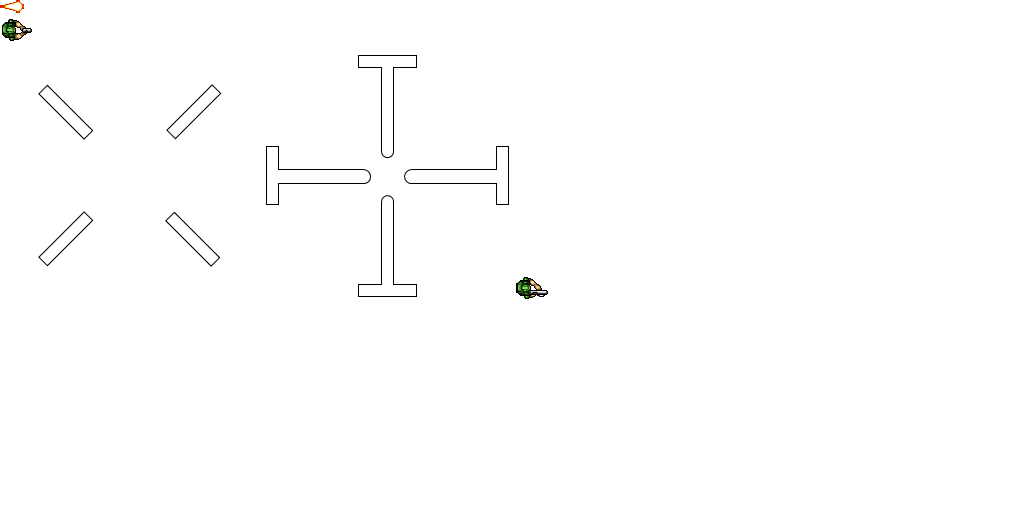
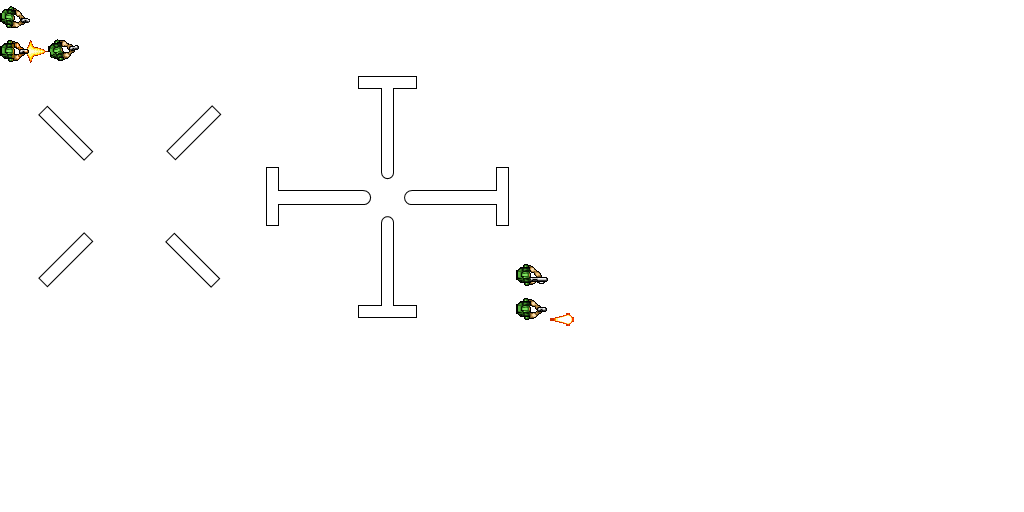
Animations added

diff --git a/core/src/com/vt/gameobjects/characters/CharacterObject.java b/core/src/com/vt/gameobjects/characters/CharacterObject.java
@@ -1,6 +1,7 @@
 package com.vt.gameobjects.characters;
 
 import com.badlogic.gdx.ai.steer.behaviors.Arrive;
+import com.badlogic.gdx.graphics.g2d.Animation;
 import com.badlogic.gdx.graphics.g2d.Batch;
 import com.badlogic.gdx.math.Vector2;
 import com.badlogic.gdx.scenes.scene2d.utils.Align;
@@ -11,21 +12,38 @@ import com.vt.gameobjects.pointers.MovementPointer;
 import com.vt.gameobjects.pointers.ViewPointer;
 import com.vt.gameobjects.weapons.AbstractWeapon;
 import com.vt.gameobjects.weapons.Pistol;
-import com.vt.gameobjects.weapons.Rifle;
 import com.vt.physics.CollisionManager;
 import com.vt.resources.Assets;
+import com.vt.timedriven.DelayedAction;
+import com.vt.timedriven.TimeDrivenExecutor;
 
 /**
  * Created by Fck.r.sns on 16.05.2015.
  */
 public class CharacterObject extends ActingObject implements ControllableCharacter {
+    private static final String TAG = CharacterObject.class.getName();
+    private TimeDrivenExecutor m_actionsManager;
     private MovementPointer m_movementPointer;
     private ViewPointer m_viewPointer;
     private Vector2 m_lastPosition;
     private boolean m_keepOrientation = true;
     private AbstractWeapon m_weapon;
+    private Animation m_animationMove;
+    private Animation m_animationShoot;
+    private Animation m_animationStand;
+    private float m_shootTime = 0;
+    private DelayedAction m_shootingAction;
+
+    protected enum State {
+        Stand,
+        Move,
+        Shoot
+    }
+
+    private State m_state = State.Stand;
 
     public CharacterObject() {
+        m_actionsManager = new TimeDrivenExecutor();
         m_lastPosition = new Vector2(0, 0);
 
         m_movementPointer = new MovementPointer();
@@ -44,6 +62,25 @@ public class CharacterObject extends ActingObject implements ControllableCharact
         setOrigin(Constants.PLAYER_ORIGIN_RELATIVE_X * Constants.PLAYER_WIDTH,
                 Constants.PLAYER_ORIGIN_RELATIVE_Y * Constants.PLAYER_HEIGHT);
         setTexture(Assets.getInstance().gameEntities.player);
+
+        m_animationMove = new Animation(
+                Constants.PLAYER_ANIMATION_FRAME_TIME_BASE,
+                Assets.getInstance().gameEntities.playerAnimationMove,
+                Animation.PlayMode.LOOP
+        );
+
+        m_animationStand = new Animation(
+                Constants.PLAYER_ANIMATION_FRAME_TIME_BASE,
+                Assets.getInstance().gameEntities.playerAnimationStand,
+                Animation.PlayMode.LOOP
+        );
+
+        m_animationShoot = new Animation(
+                Constants.PLAYER_SHOOTING_ANIMATION_FRAME_TIME,
+                Assets.getInstance().gameEntities.playerAnimationShoot,
+                Animation.PlayMode.NORMAL
+        );
+
         this.setName(Constants.PLAYER_ACTOR_NAME);
 
         setBehavior(
@@ -73,6 +110,10 @@ public class CharacterObject extends ActingObject implements ControllableCharact
         return m_viewPointer;
     }
 
+    public void setState(State state) {
+        m_state = state;
+    }
+
     @Override
     public void setMovementPointerPosition(float x, float y) {
         m_movementPointer.setActive(true);
@@ -87,8 +128,24 @@ public class CharacterObject extends ActingObject implements ControllableCharact
 
     @Override
     public void shoot() {
-        if (m_weapon != null)
+        if (m_weapon != null) {
+            setState(State.Shoot);
+            m_shootTime = Environment.getInstance().globalTime;
+            if (m_shootingAction == null)
+                m_shootingAction = new DelayedAction(
+                        Constants.PLAYER_SHOOTING_ANIMATION_DURATION,
+                        new Runnable() {
+                            @Override
+                            public void run() {
+                                setState(State.Stand);
+                            }
+                        }
+                );
+            else
+                m_shootingAction.restart();
+            m_actionsManager.addAction(m_shootingAction);
             m_weapon.shoot();
+        }
     }
 
     public void reload() {
@@ -101,6 +158,8 @@ public class CharacterObject extends ActingObject implements ControllableCharact
 
     @Override
     public void update(float delta) {
+        m_actionsManager.execute();
+
         if (m_movementPointer.getPosition().dst(getPosition()) < Constants.PLAYER_ARRIVAL_TOLERANCE) {
             m_movementPointer.setActive(false);
             m_linearVelocity.set(0, 0);
@@ -119,13 +178,19 @@ public class CharacterObject extends ActingObject implements ControllableCharact
         }
 
         updateLastPosition();
+        manageAnimation();
+        if (m_state != State.Shoot) {
+            if (m_linearVelocity.len2() > m_maxLinearSpeed * m_maxLinearSpeed * 0.25f)
+                m_state = State.Move;
+            else
+                m_state = State.Stand;
+        }
         super.update(delta);
     }
 
     @Override
     public void draw(Batch batch, float parentAlpha) {
         super.draw(batch, parentAlpha);
-
     }
 
     private void updateLastPosition() {
@@ -156,6 +221,28 @@ public class CharacterObject extends ActingObject implements ControllableCharact
                     Constants.ALIGN_ORIGIN
             );
             m_weapon.rotate(getRotation());
+        }
+    }
+
+    private void manageAnimation() {
+        Animation animationCurrent;
+        switch (m_state) {
+            case Stand:
+                animationCurrent = m_animationStand;
+                break;
+            case Move:
+                animationCurrent = m_animationMove;
+                break;
+            case Shoot:
+                animationCurrent = m_animationShoot;
+                break;
+            default:
+                animationCurrent = m_animationStand;
+                break;
+        }
+        if (animationCurrent != null) {
+            float animationTime = Environment.getInstance().globalTime - m_shootTime;
+            setTexture(animationCurrent.getKeyFrame(animationTime));
         }
     }
 }

diff --git a/core/src/com/vt/resources/Assets.java b/core/src/com/vt/resources/Assets.java
@@ -6,6 +6,7 @@ import com.badlogic.gdx.assets.AssetErrorListener;
 import com.badlogic.gdx.assets.AssetManager;
 import com.badlogic.gdx.graphics.Texture;
 import com.badlogic.gdx.graphics.g2d.TextureAtlas;
+import com.badlogic.gdx.utils.Array;
 import com.badlogic.gdx.utils.Disposable;
 import com.vt.game.Constants;
 
@@ -20,11 +21,13 @@ public class Assets implements Disposable, AssetErrorListener {
         public TextureAtlas.AtlasRegion pauseButtonDown;
         public TextureAtlas.AtlasRegion shootButtonUp;
         public TextureAtlas.AtlasRegion shootButtonDown;
-
     }
 
     public class GameEntities {
         public TextureAtlas.AtlasRegion player;
+        public Array<TextureAtlas.AtlasRegion> playerAnimationStand;
+        public Array<TextureAtlas.AtlasRegion> playerAnimationMove;
+        public Array<TextureAtlas.AtlasRegion> playerAnimationShoot;
         public TextureAtlas.AtlasRegion movementPointer;
         public TextureAtlas.AtlasRegion viewPointer;
         public TextureAtlas.AtlasRegion projectile;
@@ -73,6 +76,16 @@ public class Assets implements Disposable, AssetErrorListener {
 
         gameEntities = new GameEntities();
         gameEntities.player = atlas.findRegion(Constants.PLAYER_ASSET_NAME);
+
+        gameEntities.playerAnimationStand = new Array<TextureAtlas.AtlasRegion>(1);
+        gameEntities.playerAnimationStand.add(atlas.findRegion(Constants.PLAYER_ASSET_NAME));
+
+        gameEntities.playerAnimationMove = atlas.findRegions(Constants.PLAYER_ASSET_NAME);
+
+        gameEntities.playerAnimationShoot = new Array<TextureAtlas.AtlasRegion>(2);
+        gameEntities.playerAnimationShoot.add(atlas.findRegion(Constants.PLAYER_SHOOTING_ASSET_NAME));
+        gameEntities.playerAnimationShoot.add(atlas.findRegion(Constants.PLAYER_ASSET_NAME));
+
         gameEntities.movementPointer = atlas.findRegion(Constants.MOVEMENT_POINTER_ASSET_NAME);
         gameEntities.viewPointer = atlas.findRegion(Constants.VIEW_POINTER_ASSET_NAME);
         gameEntities.projectile = atlas.findRegion(Constants.PROJECTILE_ASSET_NAME);

diff --git a/core/src/com/vt/game/Constants.java b/core/src/com/vt/game/Constants.java
@@ -58,9 +58,14 @@ public class Constants {
 
     public static final String TEXTURE_ATLAS_PACK = "entities.pack";
     public static final String PLAYER_ASSET_NAME = "marine_pistol";
+    public static final String PLAYER_SHOOTING_ASSET_NAME = "marine_pistol_fire";
     public static final String MOVEMENT_POINTER_ASSET_NAME = "movementPointer";
     public static final String VIEW_POINTER_ASSET_NAME = "viewPointer";
     public static final String PROJECTILE_ASSET_NAME = "projectile";
+
+    public static final float PLAYER_ANIMATION_FRAME_TIME_BASE = 0.35f;
+    public static final float PLAYER_SHOOTING_ANIMATION_FRAME_TIME = 0.25f;
+    public static final float PLAYER_SHOOTING_ANIMATION_DURATION = 0.6f;
 
     public static final String TERRAIN_ATLAS_PACK = "tiles.pack";
     public static final String PLAIN_FLOOR_LIGHT_ASSET_NAME = "tile1";
@@ -93,13 +98,13 @@ public class Constants {
     public final static float MAX_ANGULAR_SPEED_DEFAULT = 30;
     public final static float MAX_ANGULAR_ACCELERATION_DEFAULT = 30;
 
-    public final static float MAX_PLAYER_LINEAR_SPEED = 4.0f; // meters per second (4 m/s = 14.4 km/h)
+    public final static float MAX_PLAYER_LINEAR_SPEED = 2.0f; // meters per second (4 m/s = 14.4 km/h)
     public final static float MAX_PLAYER_LINEAR_ACCELERATION = 6.0f;
     public final static float MAX_PLAYER_ANGULAR_SPEED = 30;
     public final static float MAX_PLAYER_ANGULAR_ACCELERATION = 30;
 
     public final static float PLAYER_ARRIVAL_TOLERANCE = 0.08f;
-    public final static float PLAYER_ARRIVAL_DECELERATION_RADIUS = 1.6f;
+    public final static float PLAYER_ARRIVAL_DECELERATION_RADIUS = 1.0f;
 
     public final static float MAX_CAMERA_LINEAR_SPEED_DEFAULT = 8;
     public final static float MAX_CAMERA_LINEAR_ACCELERATION_DEFAULT = 14;

diff --git a/core/src/com/vt/gameobjects/GameObject.java b/core/src/com/vt/gameobjects/GameObject.java
@@ -40,15 +40,19 @@ public abstract class GameObject extends Group implements Spatial {
 
     @Override
     public void draw(Batch batch, float parentAlpha) {
-        if (m_texture != null)
+        if (m_texture != null) {
+            float height = getHeight();
+            float width = m_texture.getRegionWidth() * height / m_texture.getRegionHeight();
             batch.draw(
                     m_texture,
                     getX(), getY(),
                     getOriginX(), getOriginY(),
-                    getWidth(), getHeight(),
+//                    getWidth(), getHeight(),
+                    width, height,
                     getScaleX(), getScaleY(),
                     getRotation()
             );
+        }
         drawChildren(batch, parentAlpha);
     }
 
